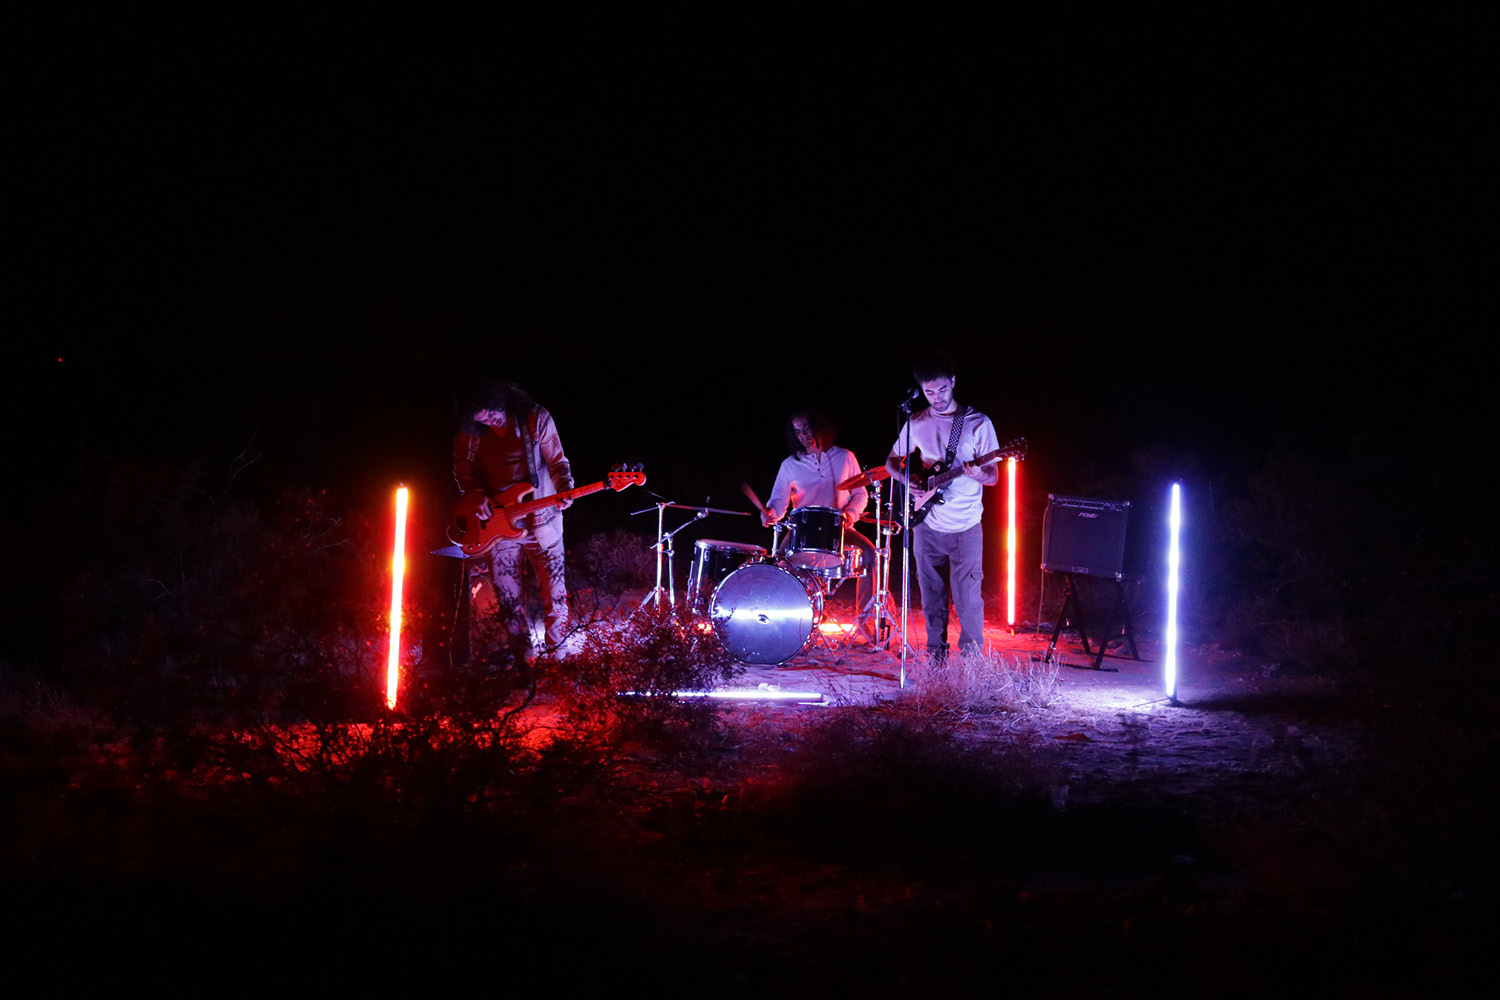
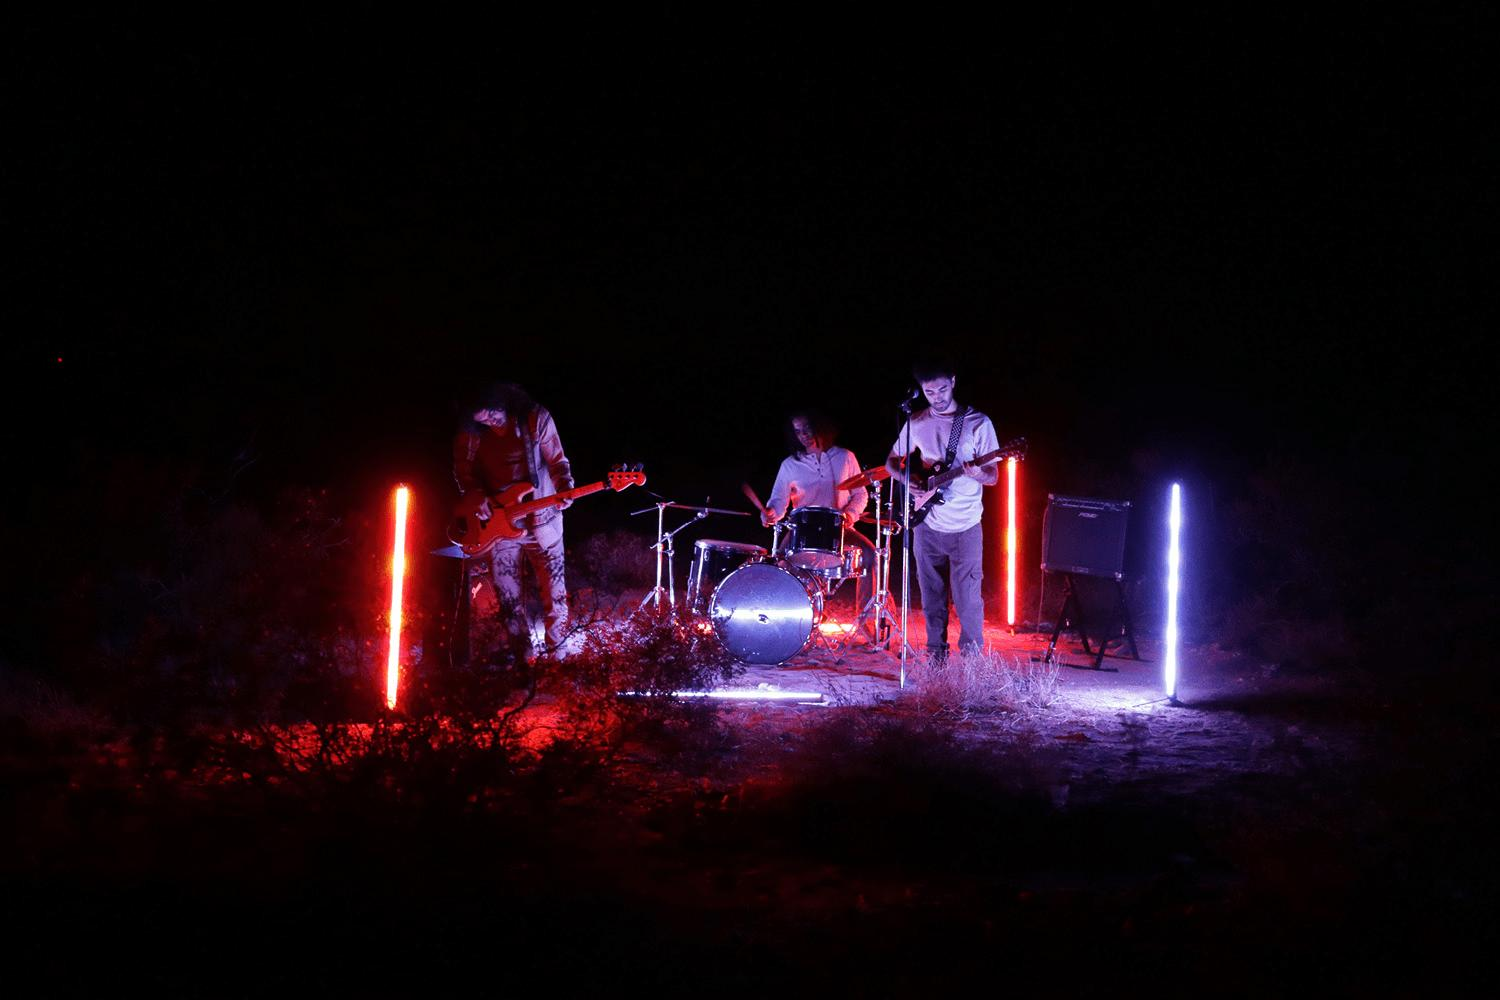
resized the rest of the photos

diff --git a/src/pages/contact/contact.js b/src/pages/contact/contact.js
@@ -1,6 +1,6 @@
 import React from "react";
 import "./contact.css";
-import { Jumbotron, Container, Col } from "reactstrap";
+import { Jumbotron, Container } from "reactstrap";
 import Titlemini from "../../components/minititle/minititle";
 import Mediabar from "../../components/mediabar/mediabar";
 
